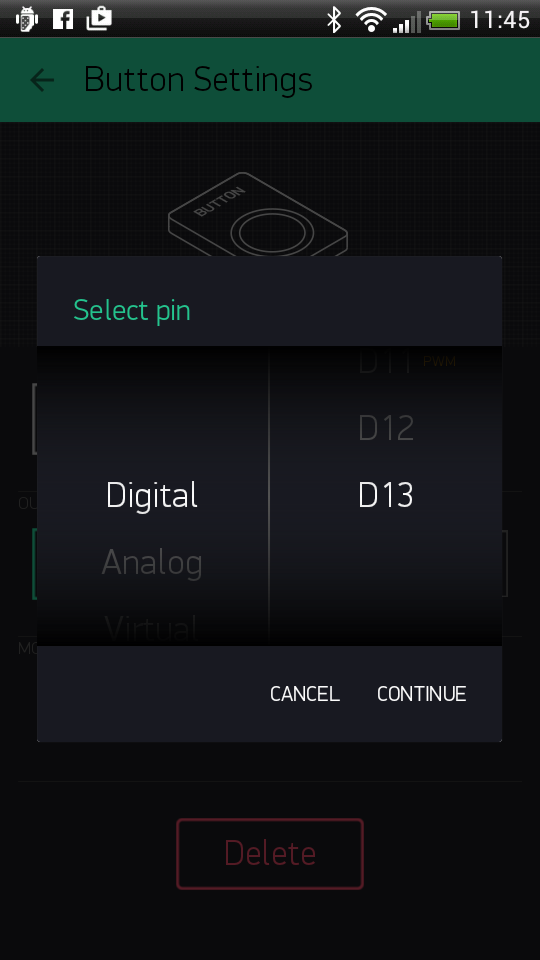
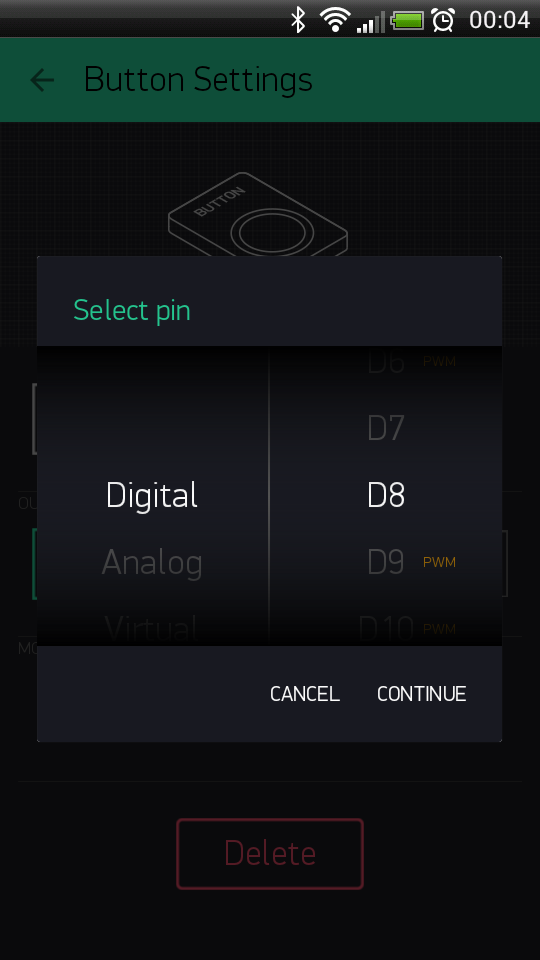
Images for widget

diff --git a/readme.md b/readme.md
@@ -111,7 +111,7 @@ Tap on the widget to get to it's settings
 
 <img src="images/button_settings.png" style="width: 300px;"/>
 
-The most important parameter to set is **PIN** . List of pins reflects physical pins defined by your hardware. If your LED is connected to Digital Pin 13 - then select **D13** (**D** - stands for **D**igital).    
+The most important parameter to set is **PIN** . List of pins reflects physical pins defined by your hardware. If your LED is connected to Digital Pin 8 - then select **D8** (**D** - stands for **D**igital).    
 
 <img src="images/pin_selection.png" style="width: 300px;"/>
 
@@ -322,7 +322,7 @@ In above example when you press button you'll get 1 and on second click 0 within
 ###Sending data array to hardware 
 Some Widgets (e.g Joystick, zeRGBa) have more than one output. 
 
-<img src="images/joystick_merge_settings.png" style="width: 300px;"/>
+<img src="images/joystick_merge_mode.png" style="width: 300px;"/>
 
 This output is an array of values. You can get any parameter of the array [0,1,2...] by using: 
 
